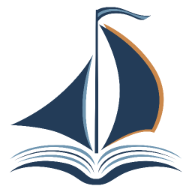
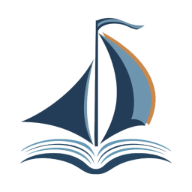
feat: added hamburger menu to mobile / screen < 768px

Changed region(s): [[0.0625, 0.0312, 0.9375, 0.9688], [0.9062, 0.875, 0.9375, 0.9062]]

diff --git a/src/App.css b/src/App.css
@@ -5,7 +5,6 @@
   }
 }
 
-
 :root {
   --default-type: #333333;
   --bh-blue: #5d89ba;
@@ -196,6 +195,11 @@ p {
   margin: 0 0 1rem 0;
 }
 
+/*
+ * ======== Styles =============
+ */
+
+
 #root {
   max-width: 1280px;
   margin: 0 auto;
@@ -253,7 +257,7 @@ button:active {
   display: flex;
   flex-direction: column;
   flex-wrap: wrap;
-  margin: 0.75rem;
+  margin: 1rem;
 }
 
 #page h1 {
@@ -271,6 +275,10 @@ button:active {
 
 #page #nav-primary {
   width: 100%;
+}
+
+#page .page-contents {
+  margin: 1rem 0;
 }
 
 #page #page-content {
@@ -319,6 +327,81 @@ button:active {
   margin-left: 0;
   padding-left: 0;
   border-left: 0;
+}
+
+/* Position and sizing of burger button */
+.bm-burger-button {
+  position: fixed;
+  width: 36px;
+  height: 30px;
+  right: 36px;
+  top: 36px;
+}
+
+/* Color/shape of burger icon bars */
+.bm-burger-bars {
+  background: #373a47;
+}
+
+/* Color/shape of burger icon bars on hover*/
+.bm-burger-bars-hover {
+  background: #a90000;
+}
+
+/* Position and sizing of clickable cross button */
+.bm-cross-button {
+  height: 24px;
+  width: 24px;
+}
+
+/* Color/shape of close button cross */
+.bm-cross {
+  background: #bdc3c7;
+}
+
+/*
+Sidebar wrapper styles
+Note: Beware of modifying this element as it can break the animations - you should not need to touch it in most cases
+*/
+.bm-menu-wrap {
+  position: fixed;
+  height: 100%;
+}
+
+/* General sidebar styles */
+.bm-menu {
+  background: #373a47;
+  padding: 2.5em 1.5em 0;
+  font-size: 1.15em;
+}
+
+/* Morph shape necessary with bubble or elastic */
+.bm-morph-shape {
+  fill: #373a47;
+}
+
+/* Wrapper for item list */
+.bm-item-list {
+  color: #b8b7ad;
+  padding: 0.8em;
+}
+
+/* Individual item */
+.bm-item {
+  display: inline-block;
+}
+
+/* Styling of overlay */
+.bm-overlay {
+  background: rgba(0, 0, 0, 0.3);
+}
+
+.bm-burger-bars {
+  background: var(--bh-blueD);
+}
+
+.bm-burger-bars-hover {
+  background: var(--bh-sea);
 }
 
 #search-main .input-book-search {
@@ -560,4 +643,22 @@ form div {
 
 form.login input {
   margin: 0 0 0 0.5rem;
+}
+
+/*
+ * ========Mobile =============
+ */
+
+#nav-hamburger {
+  display: none;
+}
+
+@media screen and (max-width:768px) {
+  #nav-hamburger {
+    display: block;
+  }
+
+  #nav-desktop {
+    display: none;
+  }
 }

diff --git a/src/components/NavPrimaryMobile.jsx b/src/components/NavPrimaryMobile.jsx
@@ -1,0 +1,41 @@
+import { useEffect, useState } from 'react'
+import { slide as Menu } from 'react-burger-menu'
+import { Link } from 'react-router-dom'
+import { useSelector } from 'react-redux'
+
+const NavPrimaryMobile = () => {
+  const user = useSelector(state => state.user)
+
+  const [menuVisible, setMenuVisible] = useState(false)
+
+  const closeMenu = () => {
+    setMenuVisible(false)
+  }
+
+  const toggleMenu = () => {
+    setMenuVisible(!menuVisible)
+  }
+
+  useEffect (() => {
+    setMenuVisible(false)
+  }, [])
+
+  return (
+    <Menu 
+      right 
+      isOpen={menuVisible}
+      onOpen={toggleMenu}  
+      onClose={toggleMenu} 
+    >
+        <Link onClick={() => closeMenu()} className="menu-item" to="/">Home</Link>
+        <Link onClick={() => closeMenu()} className="menu-item" to="/lists">My Lists</Link>
+        <Link onClick={() => closeMenu()} className="menu-item" to="/book-search">Book Search</Link>
+        { user === null 
+          ? <Link onClick={() => closeMenu()} className="menu-item" to="/my-account">Login</Link>
+          : <Link onClick={() => closeMenu()} className="menu-item" to="/my-account">{user.username}&apos;s Account</Link>
+        }
+    </Menu>
+  )
+}
+
+export default NavPrimaryMobile

diff --git a/src/components/NavPrimary.jsx b/src/components/NavPrimary.jsx
@@ -1,5 +1,6 @@
 import { Link } from 'react-router-dom'
 import { useSelector } from 'react-redux'
+import NavPrimaryMobile from './NavPrimaryMobile'
 
 const NavPrimary = () => {
   const user = useSelector(state => state.user)
@@ -7,11 +8,11 @@ const NavPrimary = () => {
   return (
     <div id="header-primary">
       <div className="header-image">
-        <a href="/"><img src="/images/bookharbr-logo-2000.png" className="logo-header" /></a>
+        <a href="/"><img src="/images/bookharbr-logo.png" className="logo-header" /></a>
       </div>
       <div className="header-container">
         <a href="/"><h1>BookHarbr</h1></a>
-        <div className="nav-container">          
+        <div id="nav-desktop" className="nav-container">          
           <Link to="/">Home</Link>
           <Link to="/lists">My Lists</Link>
           <Link to="/book-search">Book Search</Link>
@@ -20,7 +21,10 @@ const NavPrimary = () => {
             : <Link to="/my-account">{user.username}&apos;s Account</Link>
           } 
         </div>
-      </div>   
+      </div> 
+      <div id="nav-hamburger">
+        <NavPrimaryMobile />
+      </div>  
     </div>
   )
 }

diff --git a/src/components/Lists.jsx b/src/components/Lists.jsx
@@ -30,17 +30,19 @@ const Lists = () => {
   return (
     <div id="lists">
         <h2>Lists</h2>
-        <Toggle buttonLabel="add new" size="small">
+        <Toggle buttonLabel="New List" size="small">
         <form onSubmit={handleSubmit}>
           <input name="listName" />
           <button type="submit">add new list</button>
-        </form>
+        </form> 
         </Toggle>
-      {myLists.map(l => {
-        return (
-          <BookListDisplay key={l.id} list={l} />
-        )
-      })}
+        <div className="page-contents">
+          {myLists.map(l => {
+            return (
+              <BookListDisplay key={l.id} list={l} />
+            )
+          })}
+        </div>
     </div>
   )
 }

diff --git a/src/components/NeedLogin.jsx b/src/components/NeedLogin.jsx
@@ -1,8 +1,10 @@
+import { Link } from 'react-router-dom'
+
 const NeedLogin = () => {
   return (
     <div id="need-login">
       <h2>Login Required</h2>
-      <p>Please login at the top of the page in order to see the content.</p>
+      <p>Welcome. Please <Link to="/my-account">log in to continue</Link>.</p>
     </div>
   )
 }
